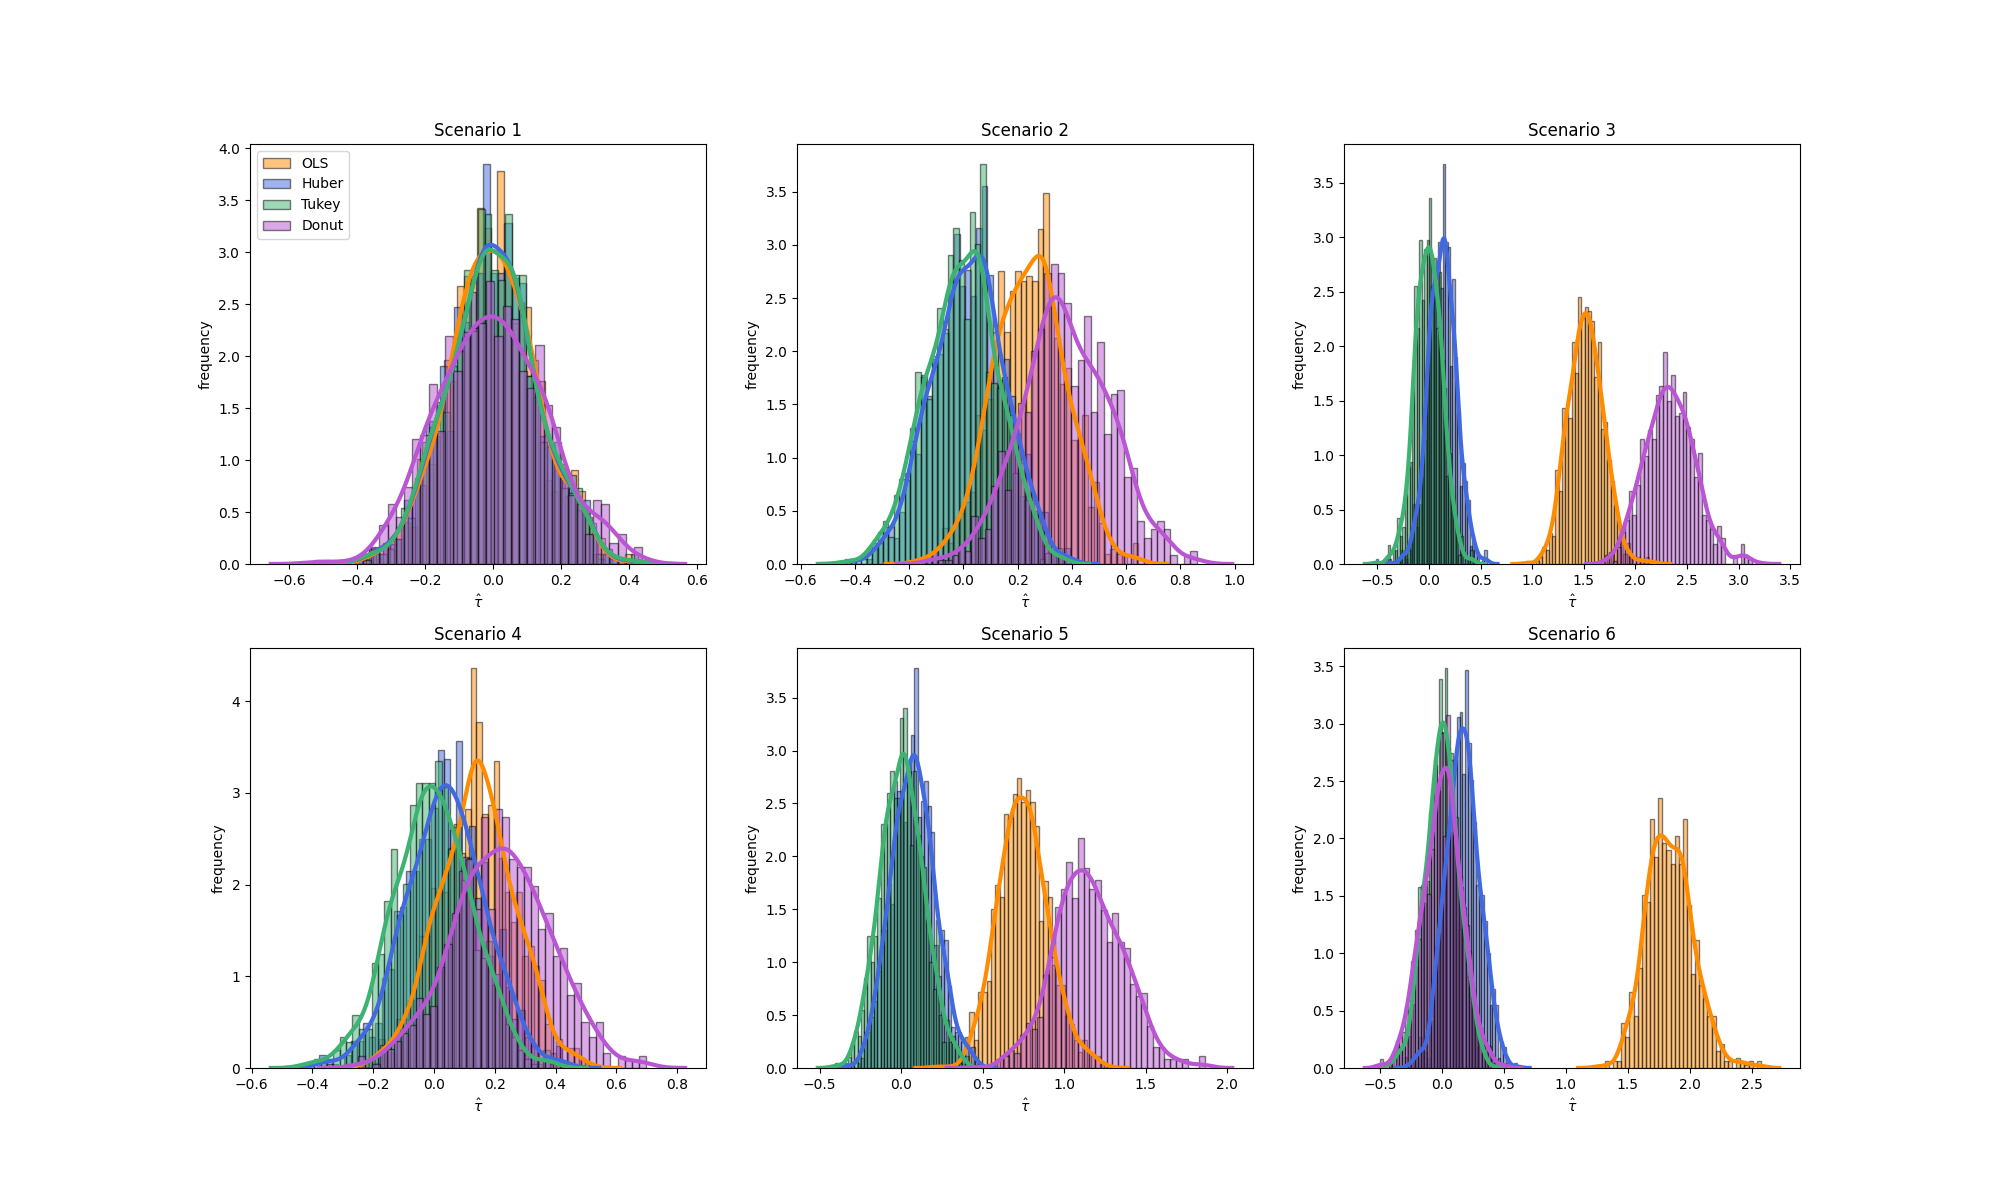
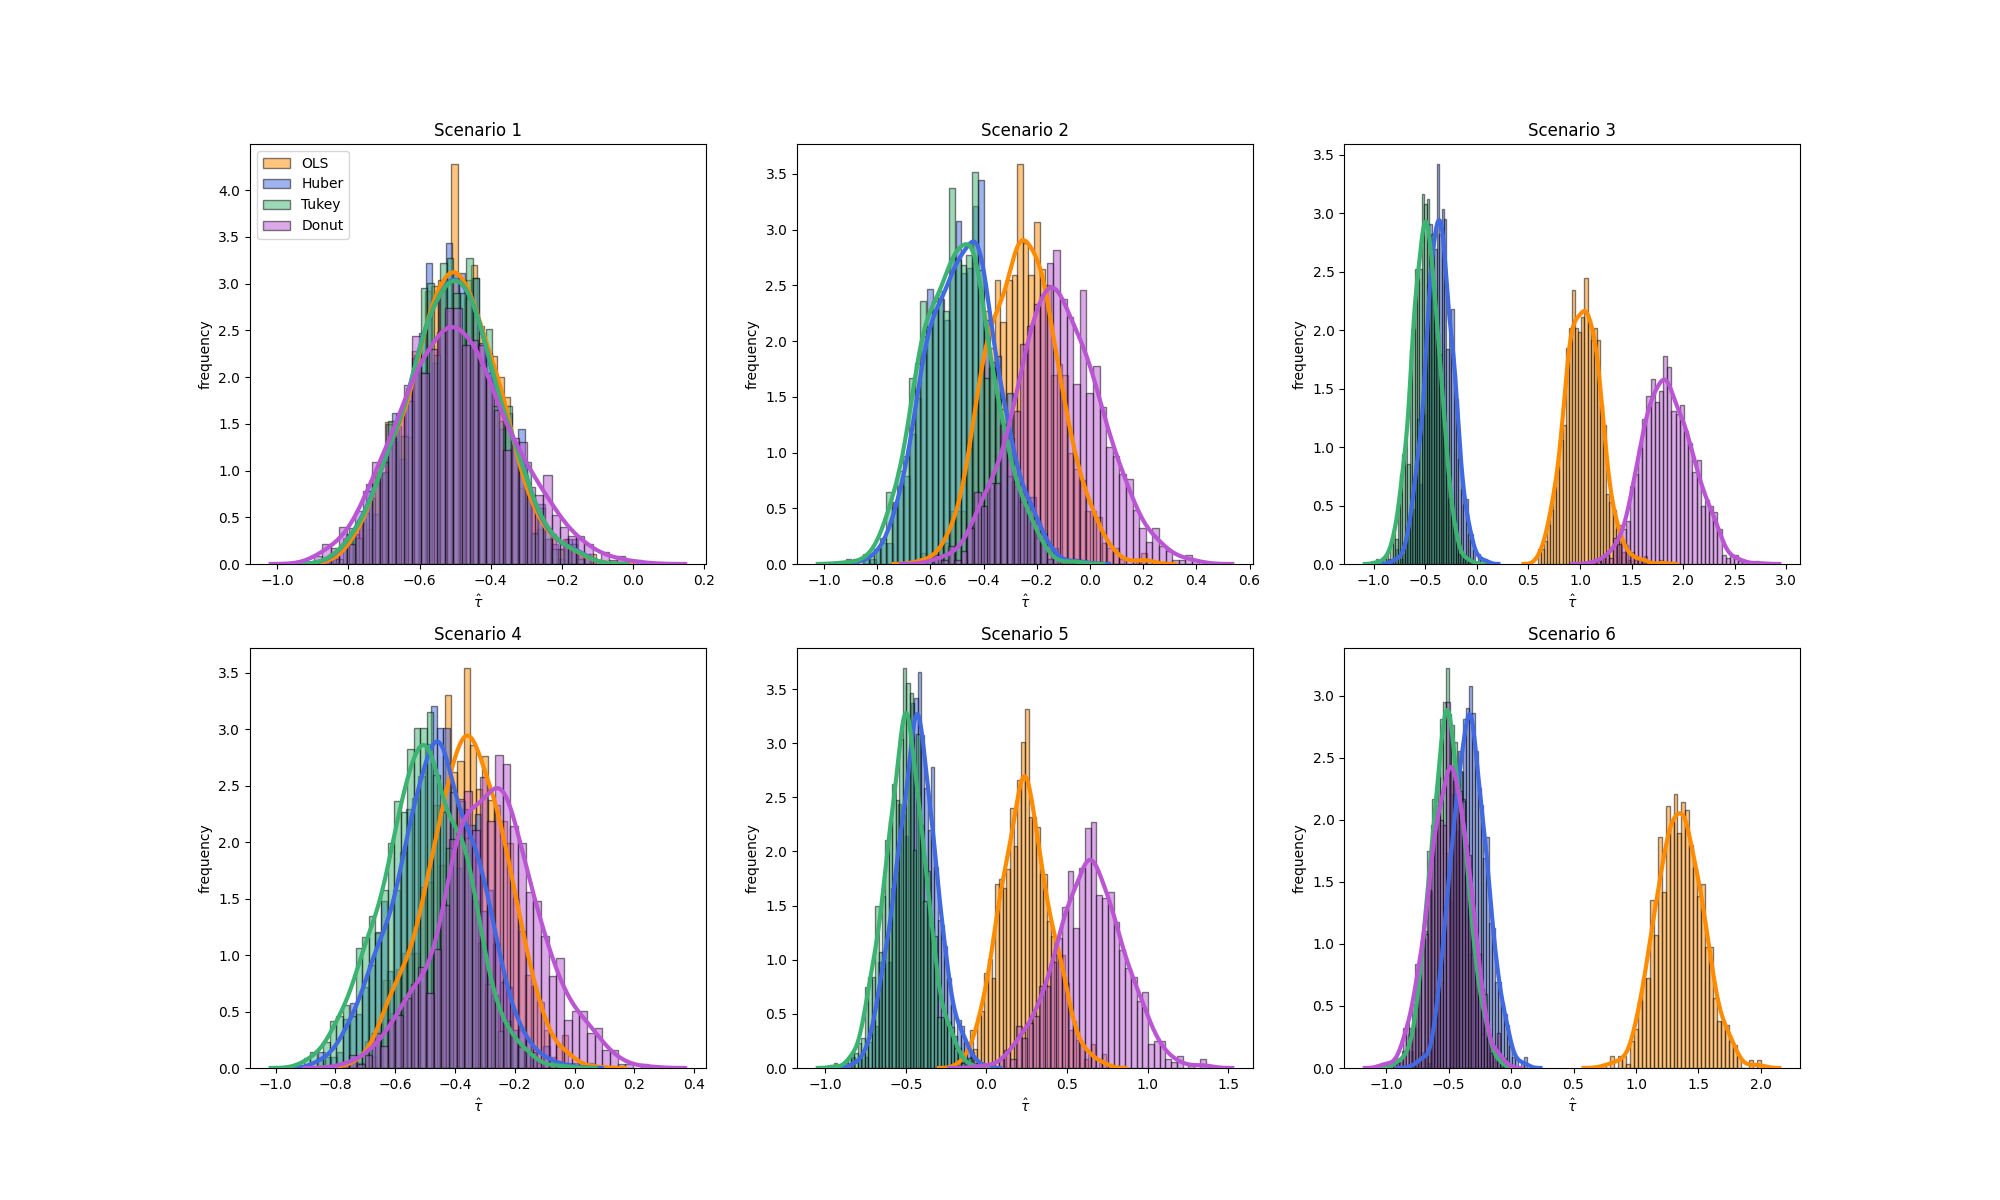
typos

diff --git a/src/simMetrics.py b/src/simMetrics.py
@@ -207,13 +207,13 @@ def analyseSimResults(simResults, tau, printToLatex=False):
         np.transpose(
             np.array(
                 [
-                    point1.mean(),
+                    point1.mean()-tau,
                     point1.std(),
                     compRMSE(point1, 2),
-                    point2.mean(),
+                    point2.mean()-tau,
                     point2.std(),
                     compRMSE(point2, 2),
-                    point3.mean(),
+                    point3.mean()-tau,
                     point3.std(),
                     compRMSE(point3, 2),
                 ]
@@ -226,13 +226,13 @@ def analyseSimResults(simResults, tau, printToLatex=False):
         np.transpose(
             np.array(
                 [
-                    point4.mean(),
+                    point4.mean()-tau,
                     point4.std(),
                     compRMSE(point4, 2),
-                    point5.mean(),
+                    point5.mean()-tau,
                     point5.std(),
                     compRMSE(point5, 2),
-                    point6.mean(),
+                    point6.mean()-tau,
                     point6.std(),
                     compRMSE(point6, 2),
                 ]
@@ -365,15 +365,15 @@ def analyseSimResults(simResults, tau, printToLatex=False):
 
     # Create labels for dataframe with results about type 1 error of t-test
     labelsResults4 = [
-        "10//%",
-         "5//%",
-         "1//%",
-        "10//%",
-         "5//%",
-         "1//%",
-        "10//%",
-         "5//%",
-         "1//%",
+        "10\\%",
+         "5\\%",
+         "1\\%",
+        "10\\%",
+         "5\\%",
+         "1\\%",
+        "10\\%",
+         "5\\%",
+         "1\\%",
     ]
     labelsResults4a = pd.MultiIndex.from_arrays(
         [
@@ -477,6 +477,8 @@ def analyseSimResults(simResults, tau, printToLatex=False):
         + str(len(firstSample1.X))
         + " , r = "
         + str(len(point1.OLS))
+        + " , τ = "
+        + str(tau)
         + " -------------"
     )
     print("")

diff --git a/src/simulation.py b/src/simulation.py
@@ -66,7 +66,7 @@ def simulation(
     -------
     pointEstimation: DataFrame
         A dataframe object with the point estimation results from the simulation.
-        Values are stored as bias relative to the true value.
+        Values are stored as point relative to the true value.
     testValues: DataFrame
         A dataframe object with the results about the type I error of t-tests.
         Includes two dataframes one with results based on normal and one based on t distr.
@@ -79,7 +79,7 @@ def simulation(
     """
 
     # Creat empty output arrays
-    bias = [{}, {}, {}, {}]
+    point = [{}, {}, {}, {}]
 
     t_type1error = [{}, {}, {}, {}], [{}, {}, {}, {}], [{}, {}, {}, {}]
 
@@ -118,8 +118,8 @@ def simulation(
             # Fit the model
             res = jointFitRD(models[m], sample, cutoff)
 
-            # Record point estimate
-            bias[m] = np.append(bias[m], res.params.iloc[2] - tau)
+            # Record point estimates
+            point[m] = np.append(point[m], res.params.iloc[2])
 
             # Record if t test of Ho: t == tau is rejected based on normal and student-t
             if tau == 0:
@@ -194,7 +194,7 @@ def simulation(
 
     # Adjust the format of the arrays (delete empty first cell)
     for m in range(len(models)):
-        bias[m] = np.delete(bias[m], 0)
+        point[m] = np.delete(point[m], 0)
         t_type1error[0][m] = np.delete(t_type1error[0][m], 0)
         t_type1error[1][m] = np.delete(t_type1error[1][m], 0)
         t_type1error[2][m] = np.delete(t_type1error[2][m], 0)
@@ -205,7 +205,7 @@ def simulation(
 
     # Create dataframe with point estimation results from the simulation
     pointEstimation = pd.DataFrame(
-        {"OLS": bias[0], "Huber": bias[1], "Tukey": bias[2], "Donut": bias[3]}
+        {"OLS": point[0], "Huber": point[1], "Tukey": point[2], "Donut": point[3]}
     )
 
     # Create dataframes with t-test results from the simulation

diff --git a/dev.py b/dev.py
@@ -44,7 +44,7 @@ import numpy as np
 # simResults = sim.simulations(r, "Basic Linear", n, tau=-1, alpha=0.5, beta=1, cutoff=0)
 # met.analyseSimResults(simResults)
 
-r1, r2, n = 100,1000, 250
+r1, r2, n = 0,1000, 250
 
 outlierScenarios = (
     "Simple Outside Right",
@@ -58,15 +58,15 @@ outlierScenarios = (
     "Simple Oposite Inside",
     3,
 )
-sim.powerSimulations(
-    r1,
-    "Basic Linear",
-    n,
-    alpha=0.5,
-    beta=1,
-    cutoff=0,
-    parametersScenarios=outlierScenarios,
-)
+#sim.powerSimulations(
+#    r1,
+#    "Basic Linear",
+#    n,
+#    alpha=0.5,
+#    beta=1,
+#    cutoff=0,
+#    parametersScenarios=outlierScenarios,
+#)
 sim.simulations(
     r2,
     "Basic Linear",
@@ -81,7 +81,7 @@ sim.simulations(
     r2,
     "Basic Linear",
     n,
-    tau=0,
+    tau=0, 
     alpha=0.5,
     beta=1,
     cutoff=0,
